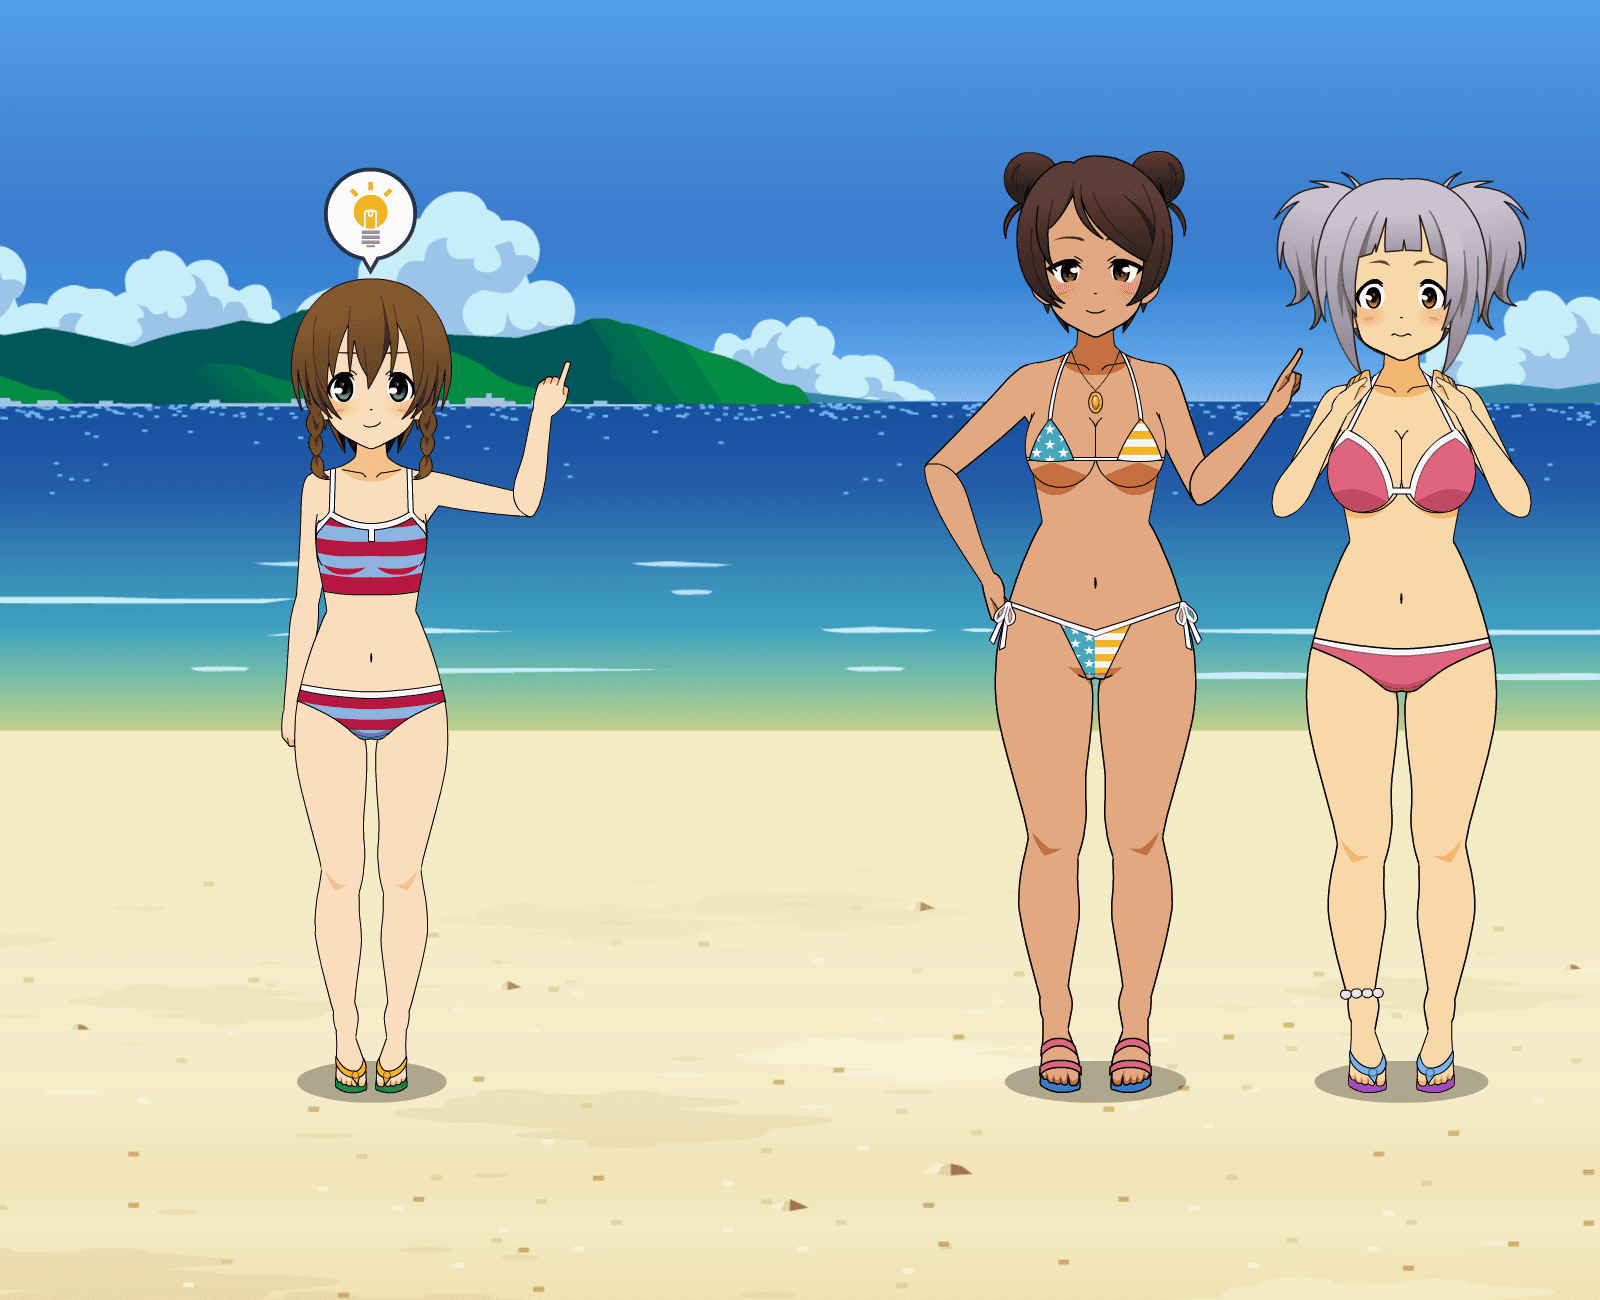
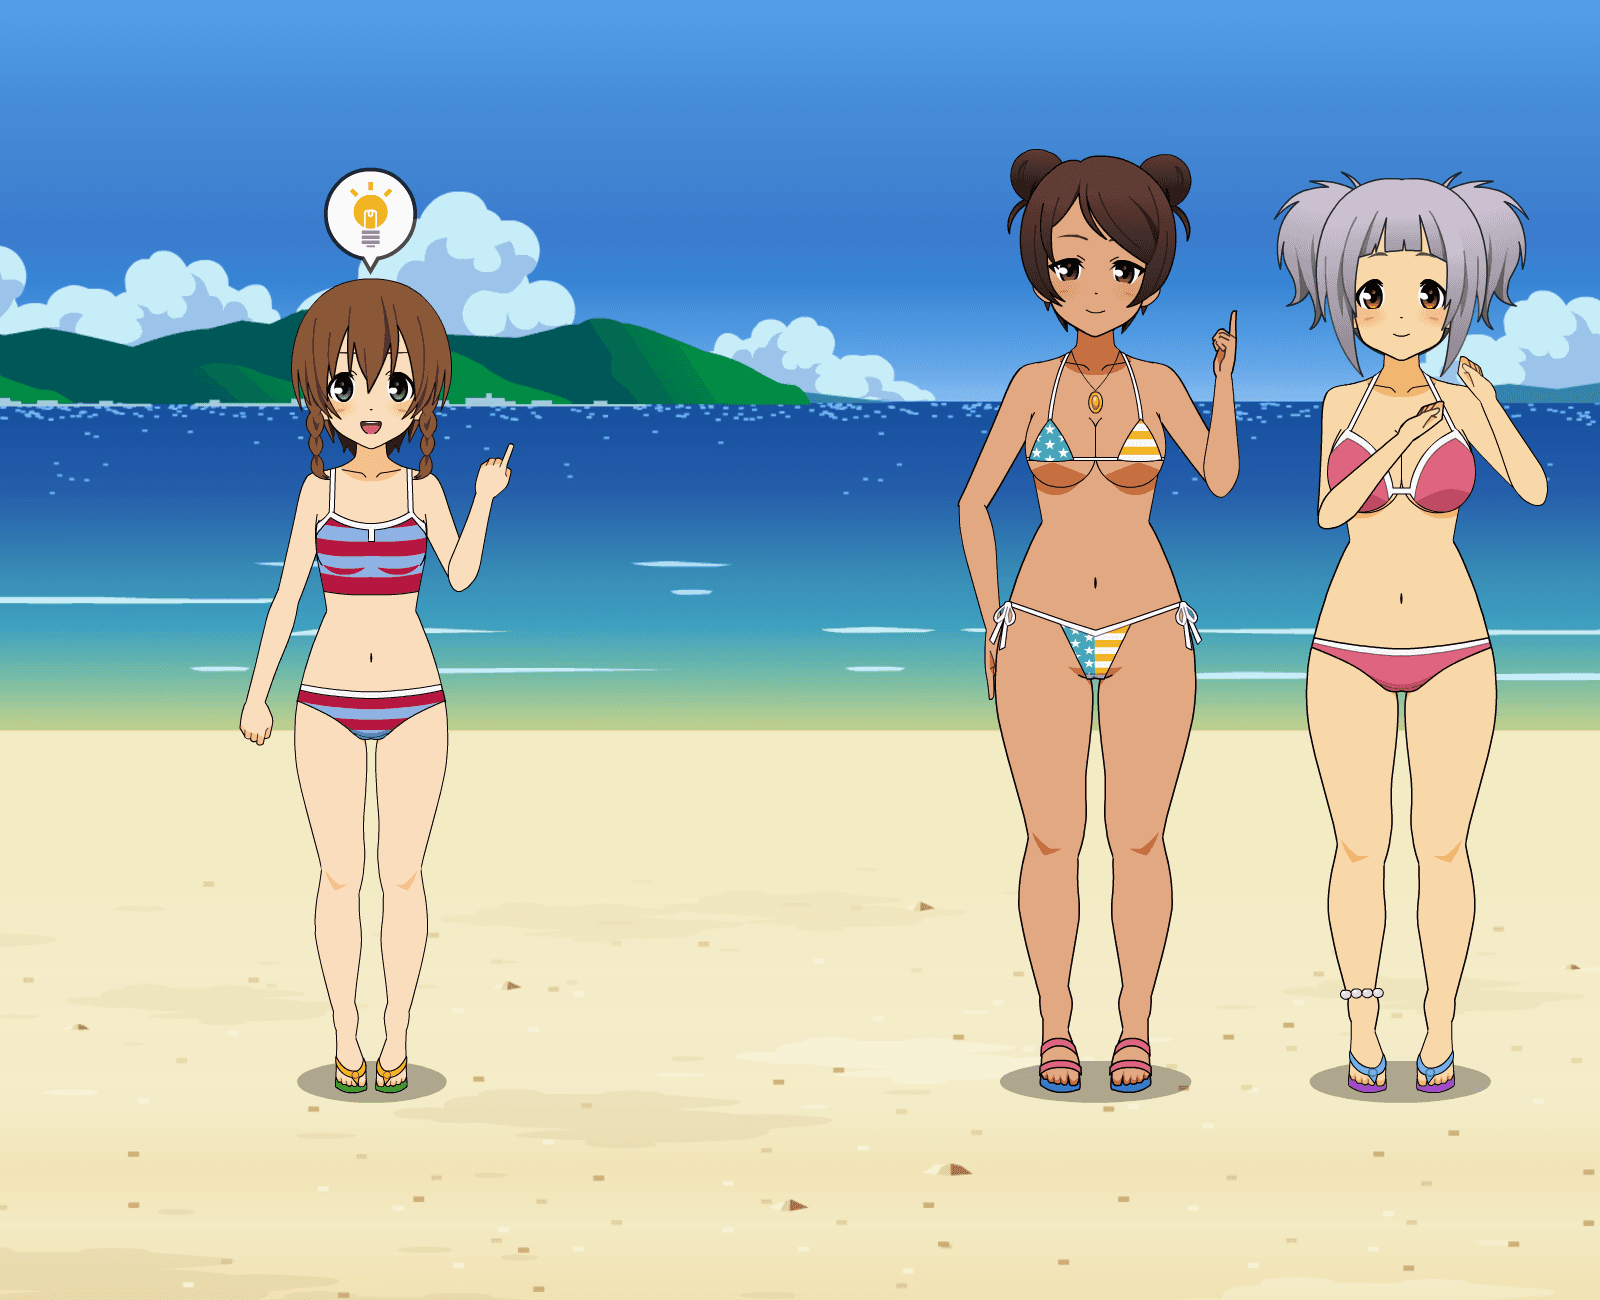
Finalized Chloe.

diff --git a/_projects/bimbo-booth/bimbo-booth.html b/_projects/bimbo-booth/bimbo-booth.html
@@ -79,6 +79,9 @@ In the bimbofication booth you can watch a variety of characters transforming in
          <p>
             Fortunately for Chloe, Bimnocorp had just launched a new line of summer-themed products...
          </p>
+         <br>
+         <hr>
+         <p> Chloe was created and submitted by <a href="https://www.youtube.com/channel/UC_Cn3RZ3IDgkFBye-5Ejgvw">CraftTG</a>. Thanks for your hard work ♥ </p>
       </section>
    </div>
    <div class="side">

diff --git a/_posts/2019-12-08-bimbo-booth-chloe.md b/_posts/2019-12-08-bimbo-booth-chloe.md
@@ -1,0 +1,13 @@
+---
+categories: blog
+
+title:  "Bimbofication Booth: Chloe"
+date:   2019-12-08 02:00:00 +0100
+author: Gardamuse
+---
+
+A while ago I was chatting in the comments by [CraftTG](https://www.youtube.com/channel/UC_Cn3RZ3IDgkFBye-5Ejgvw) who was eager to create a character for the Bimbo Booth. After some amazing work, I am now happy to welcome Chloe to the **[Bimbofication Booth](/bimbo-booth/)**! She is a bit jealous of how her friends always gets all the attention, but fortunately, your favourite shady corporation is there to help.
+
+With this update, I am also removing the old Character Viewer since all of its characters and features with upgrades are available in the Bimbofication Booth.
+
+Enjoy, and many thanks to CraftTG ♥
